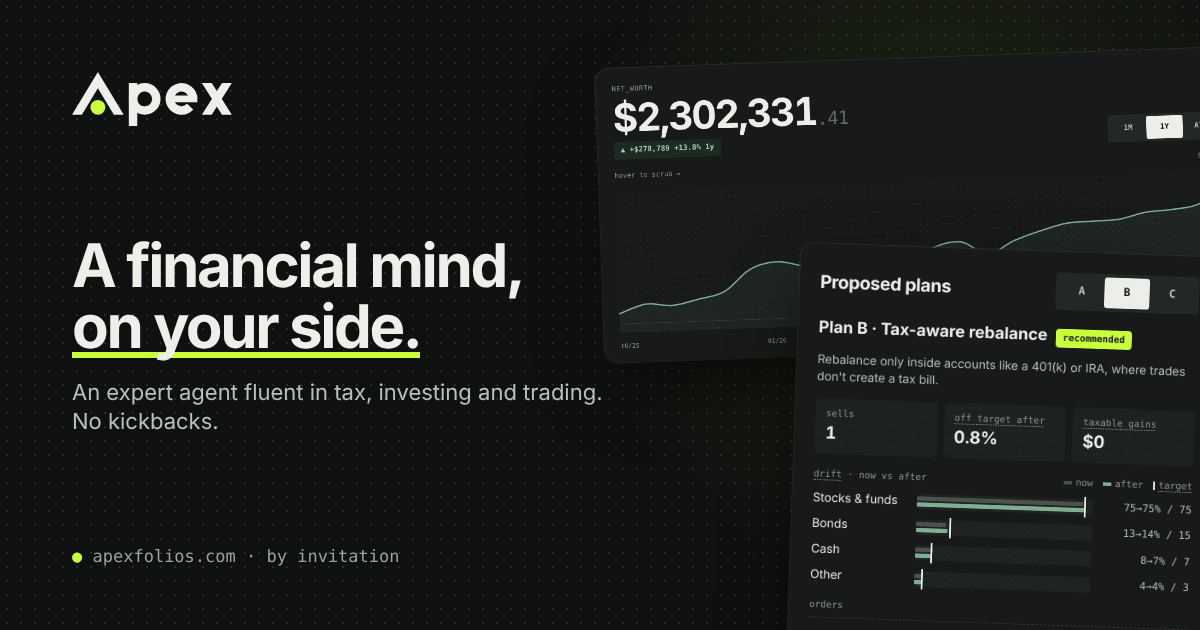
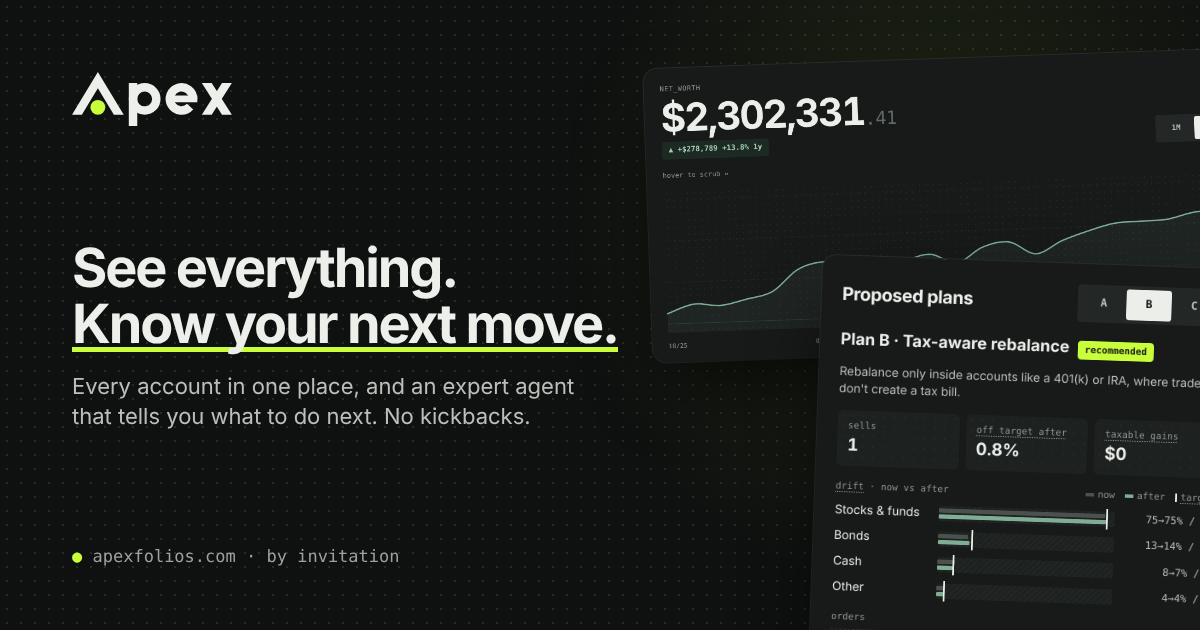
Headline: See everything. Know your next move. (pages + social image); agent API replies 401 when signed out
Claude-Session: https://claude.ai/code/session_01JZZMLJom7DkKPJc4MCMRXo

diff --git a/components/ValuePanel.tsx b/components/ValuePanel.tsx
@@ -14,12 +14,12 @@ export function ValuePanel({ badge }: { badge?: string }) {
           <span className="mono" style={{ alignSelf: "flex-start", padding: "4px 10px", border: "1px solid var(--dark-line)", borderRadius: 4, fontSize: 12, color: "var(--accent-soft)" }}>● {badge}</span>
         )}
         <h1 style={{ fontSize: "clamp(36px, 9vw, 52px)", fontWeight: 700, letterSpacing: "-0.04em", lineHeight: 1.02 }}>
-          A financial mind,
+          See everything.
           <br />
-          <span className="hl-dark">on your side.</span>
+          <span className="hl-dark">Know your next move.</span>
         </h1>
         <p style={{ margin: 0, fontSize: 18, color: "#B9C0BA" }}>
-          An expert agent fluent in tax, investing and trading. Clear views from your own accounts, paid for by you and no one else.
+          Apex connects all your accounts, and an expert agent tells you what to do next, tax math included. No kickbacks, ever.
         </p>
       </div>
       <div className="scan mono" style={{ backgroundColor: "#1F2321", border: "1px solid var(--dark-line)", borderRadius: "var(--r-card)", padding: "18px 20px", fontSize: 13, display: "flex", flexDirection: "column", gap: 8, maxWidth: 540 }}>

diff --git a/auth.ts b/auth.ts
@@ -29,7 +29,7 @@ export const { handlers, auth, signIn, signOut } = NextAuth({
       // Every page is browsable signed out — visitors see the whole app on sample data.
       // Anything that touches real data (API routes) still requires a session.
       const PUBLIC = ["/robots.txt", "/sitemap.xml", "/llms.txt", "/opengraph-image.png", "/twitter-image.png", "/", "/signin", "/networth", "/portfolio", "/spending", "/ledger", "/agent", "/settings"];
-      const isPublic = PUBLIC.includes(pathname) || pathname === "/waitlist" || pathname.startsWith("/api/auth") || pathname === "/api/waitlist" || pathname.startsWith("/api/v1/"); // v1 checks its own API keys
+      const isPublic = PUBLIC.includes(pathname) || pathname === "/waitlist" || pathname.startsWith("/api/auth") || pathname === "/api/waitlist" || pathname.startsWith("/api/v1/") || pathname === "/api/agent/chat"; // these check auth themselves and reply 401 JSON
       if (isPublic) return true;
       return Boolean(auth?.user?.email);
     },

diff --git a/app/layout.tsx b/app/layout.tsx
@@ -4,7 +4,7 @@ import { THEME_BOOT } from "@/lib/theme";
 
 export const metadata: Metadata = {
   metadataBase: new URL("https://www.apexfolios.com"),
-  title: { default: "Apex — a financial mind, on your side", template: "%s · Apex" },
+  title: { default: "Apex — see everything, know your next move", template: "%s · Apex" },
   description:
     "Apex is a personal finance agent fluent in tax, investing and trading. It reads your accounts read-only, shows your whole net worth, and proposes tax-aware plans. No commissions, no kickbacks. By invitation.",
   applicationName: "Apex",

diff --git a/app/(app)/page.tsx b/app/(app)/page.tsx
@@ -10,7 +10,7 @@ import { HeatmapCard } from "@/components/overview/HeatmapCard";
 import { Board } from "@/components/overview/Board";
 
 export const dynamic = "force-dynamic";
-export const metadata = { title: { absolute: "Apex — a financial mind, on your side" }, alternates: { canonical: "/" } };
+export const metadata = { title: { absolute: "Apex — see everything, know your next move" }, alternates: { canonical: "/" } };
 
 // Structured data so search engines and AI assistants can describe Apex accurately.
 const JSON_LD = {
